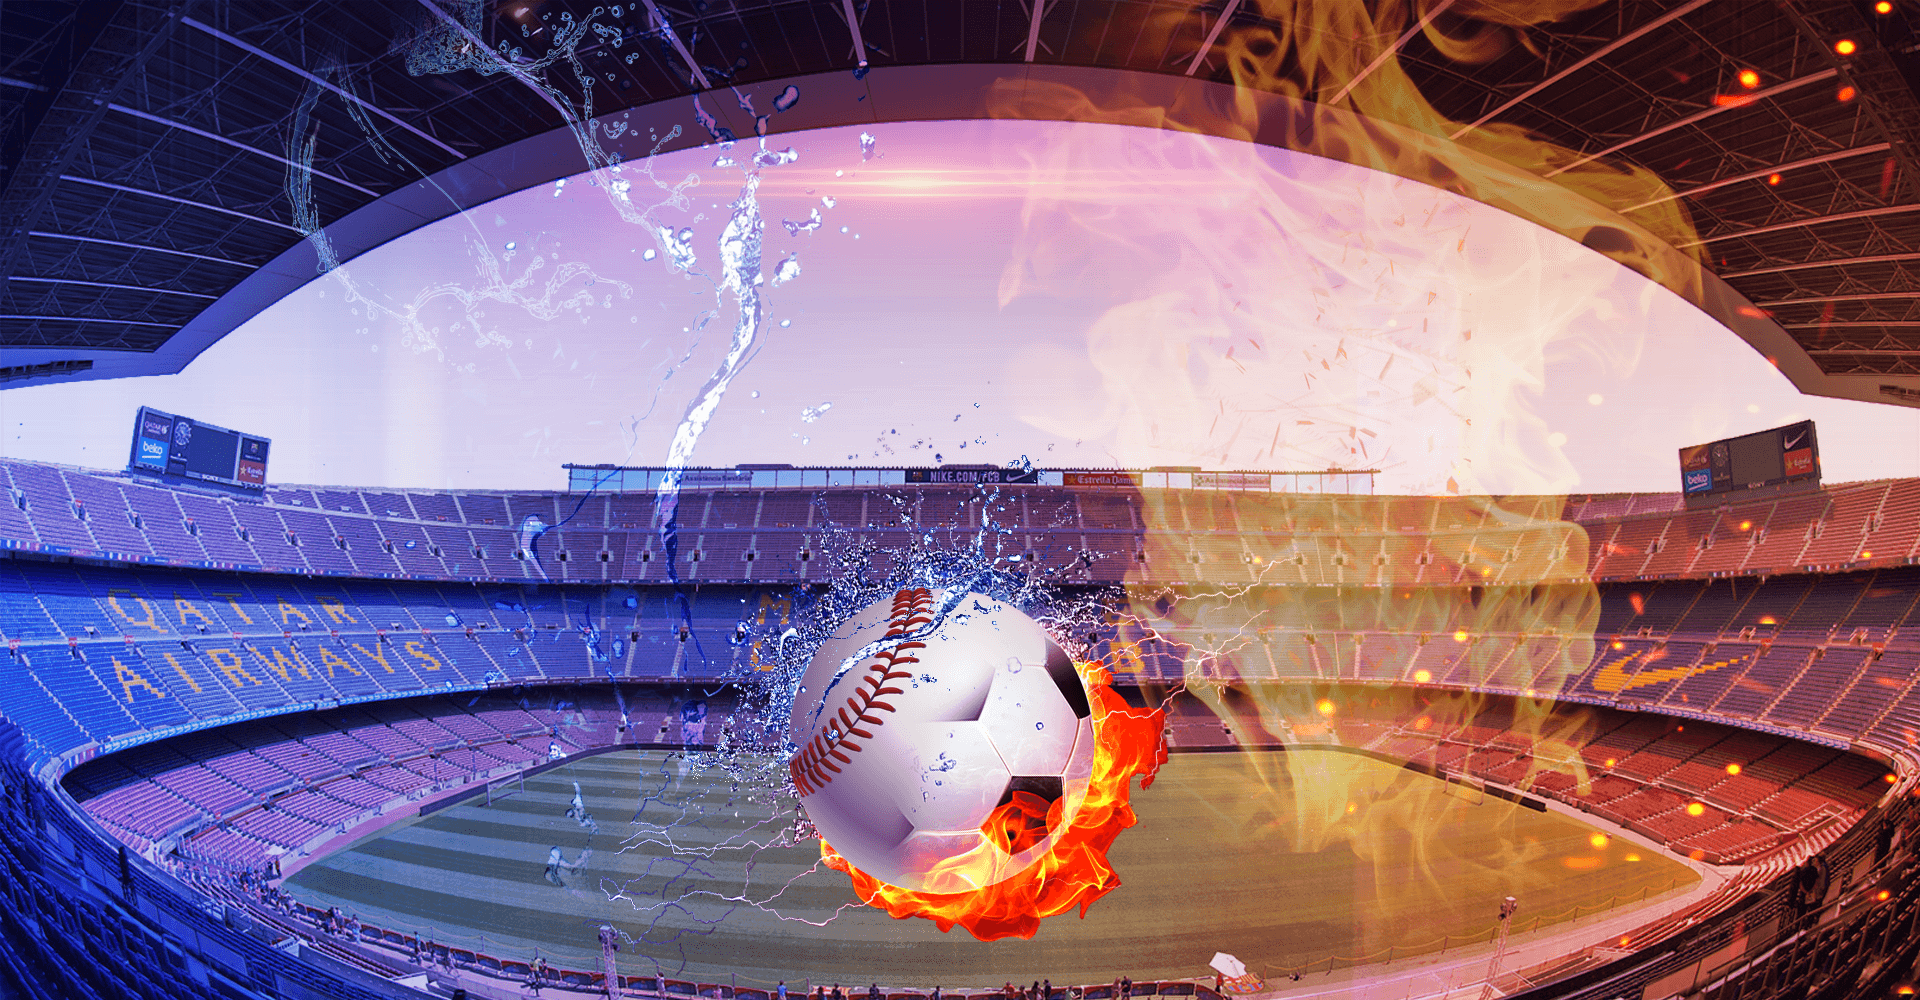
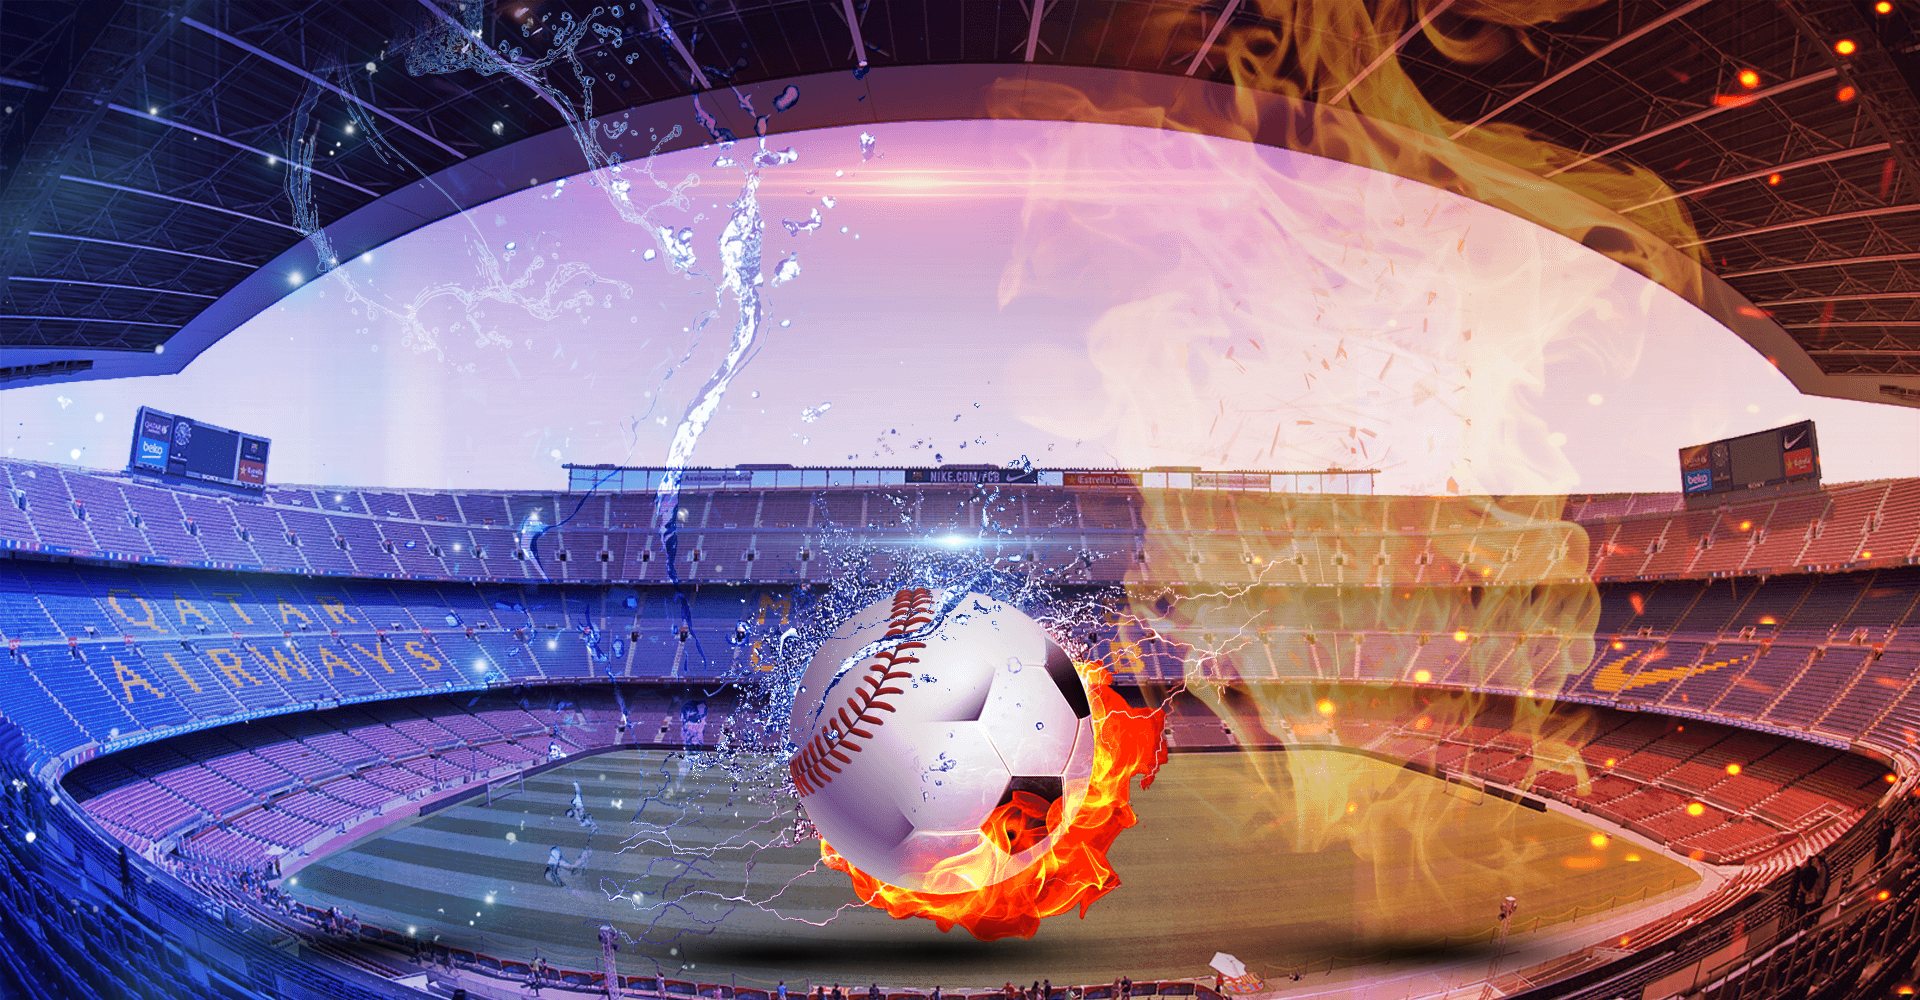
2

diff --git a/css/style.scss b/css/style.scss
@@ -83,14 +83,6 @@ html {
             height: 937px;
             overflow: hidden;
 
-            .light {
-                width: 100%;
-                height: 937px;
-                background: url(../image/light.png) no-repeat;
-                background-size: 100%;
-                position: absolute;
-            }
-
             article{
                 width: 1200px; 
                 height: 100%;

diff --git a/css/style.css b/css/style.css
@@ -90,13 +90,6 @@ html body main {
   height: 937px;
   overflow: hidden;
 }
-html body main .light {
-  width: 100%;
-  height: 937px;
-  background: url(../image/light.png) no-repeat;
-  background-size: 100%;
-  position: absolute;
-}
 html body main article {
   width: 1200px;
   height: 100%;

diff --git a/index.html b/index.html
@@ -9,7 +9,6 @@
 </head>
 <body>
     <main>
-        <div class="light"></div>
         <article>
             <section class="left">
                 <div class="baseball-man"></div>
